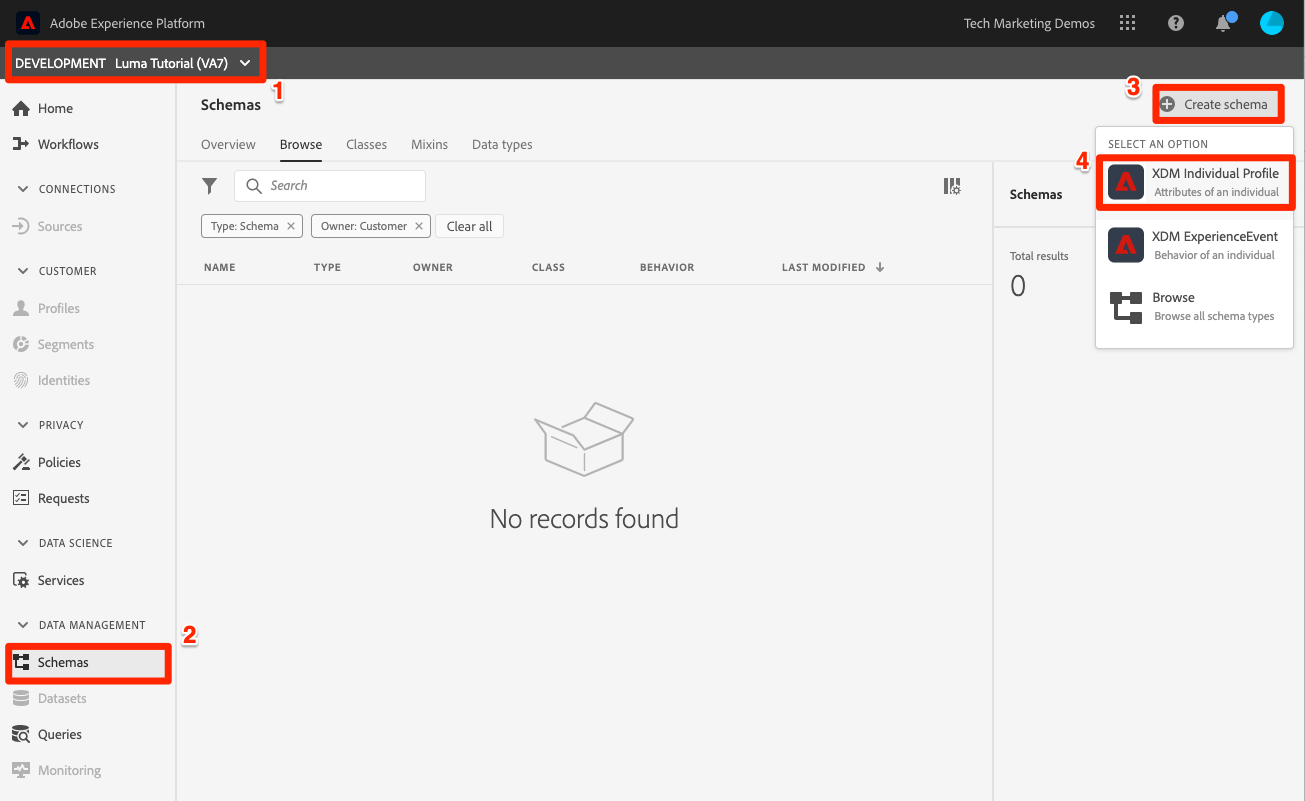
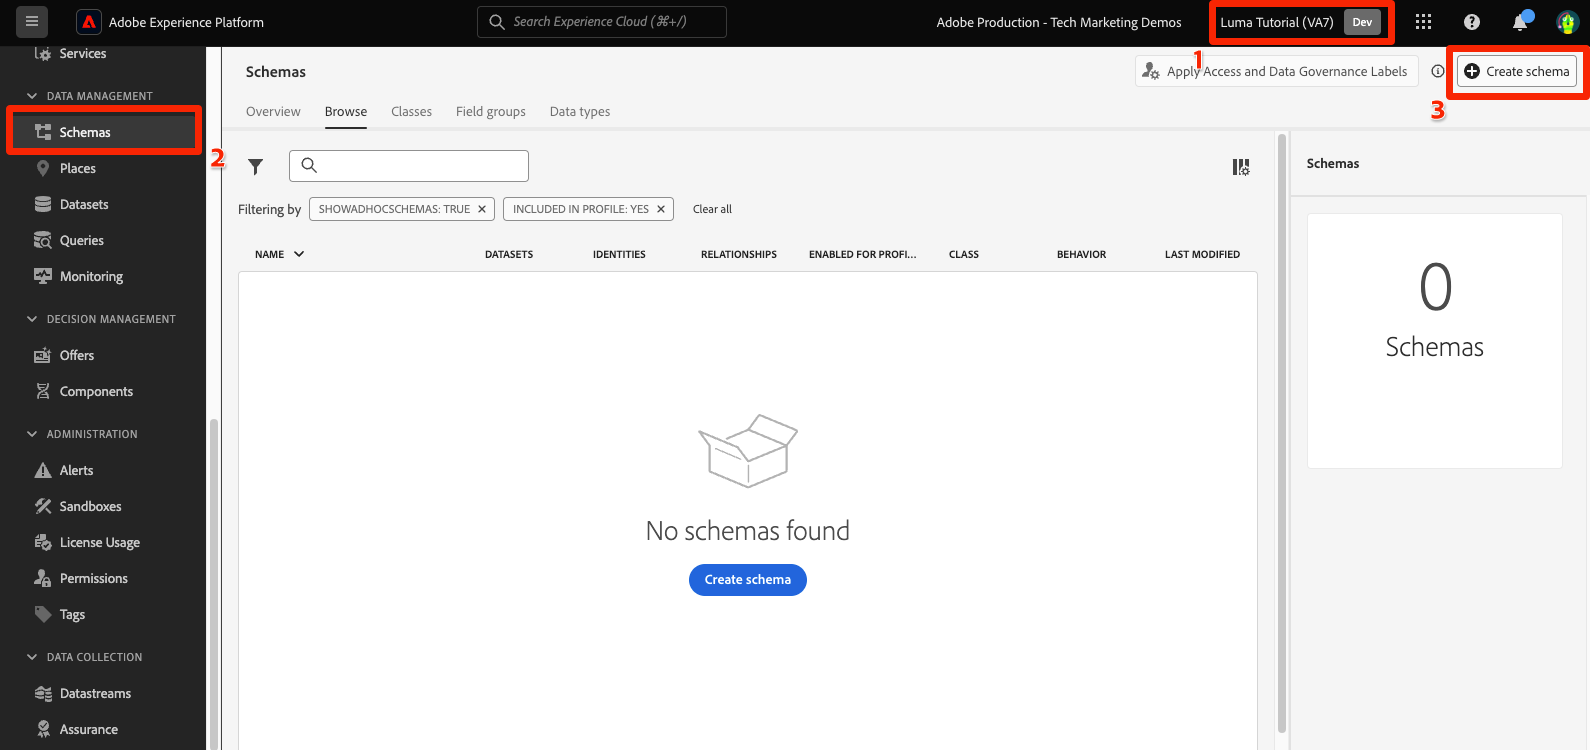
The 'Create Loyalty Schema via UI' section update: instructions & screenshots

diff --git a/help/tutorial-data-architect-and-engineer/model-data-in-schemas.md b/help/tutorial-data-architect-and-engineer/model-data-in-schemas.md
@@ -64,10 +64,17 @@ In the [Configure Permissions](configure-permissions.md) lesson, you set up all 
 In this exercise, we will create a schema for Luma's loyalty data.
 
 1. Go to the Platform user interface and ensure that your sandbox is selected.
-1. Go to **[!UICONTROL Schemas]** in the left navigation
-1. Select the **[!UICONTROL Create Schema]** button on the top right
-1. From the dropdown menu, select **[!UICONTROL XDM Individual Profile]**, since we will be modeling attributes of an individual customer (points, status, and so on).
+1. Go to **[!UICONTROL Schemas]** in the left navigation.
+1. Select the **[!UICONTROL Create schema]** button on the top right.
   ![Schema with OOTB Field group](assets/schemas-loyaltyCreateSchema.png)
+
+1. In the Create schema workflow, select **[!UICONTROL Individual Profile]** as the base class for your schema, since we will be modeling attributes of an individual customer (points, status, and so on).
+1. Select **[!UICONTROL Next]**.
+  ![Select base class](assets/schemas-loyaltySelectBaseClass.png)
+
+1. Enter `Luma Loyalty Schema` in the **[!UICONTROL Schema display name]** text field. Take some time to review and verify the base schema structure  that is shown in the canvas below.
+1. Select **[!UICONTROL Finish]** to create your schema.
+  ![Finish creating the loyalty schema](assets/schemas-loyaltyFinishSchemaCreation.png)
 
 ### Add standard field groups
 
